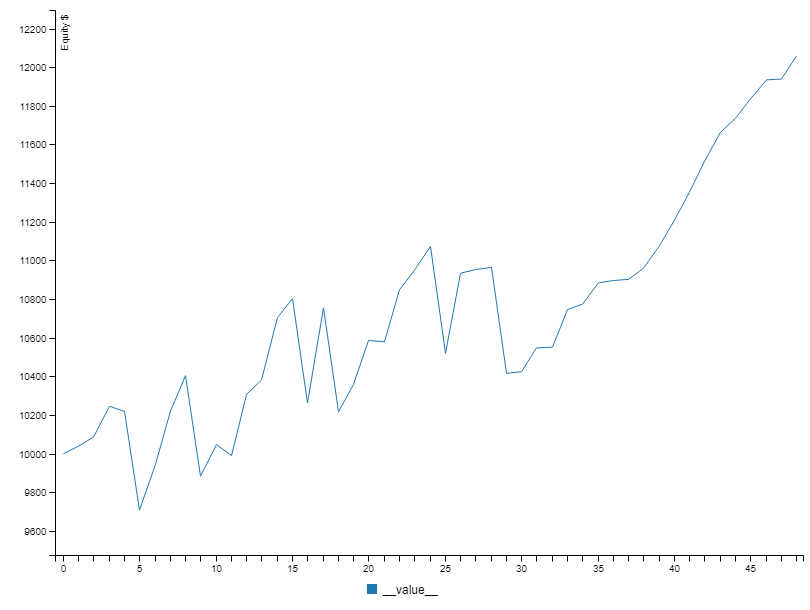
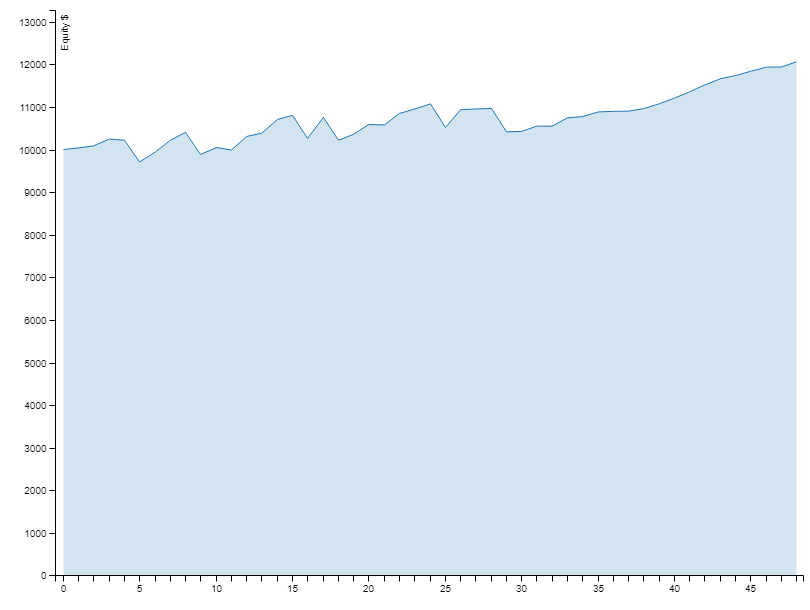
Changed equity curve and drawdown charts to area charts. Updated Data-Forge and DFP.

diff --git a/index.js b/index.js
@@ -1,6 +1,6 @@
 
 const dataForge = require('data-forge');
-//TODO: coming soon - require('data-forge-fs'); // For loading files.
+require('data-forge-fs'); // For loading files.
 require('data-forge-indicators'); // For the moving average indicator.
 require('data-forge-plot'); // For rendering charts.
 const { backtest, analyze, computeEquityCurve, computeDrawdown } = require('grademark');
@@ -81,28 +81,28 @@ async function main() {
     const equityCurve = computeEquityCurve(startingCapital, trades);
     const equityCurveOutputFilePath = "output/my-equity-curve.png";
     await equityCurve
-        .plot({ y: { label: "Equity $" }})
+        .plot({ chartType: "area", y: { label: "Equity $" }})
         .renderImage(equityCurveOutputFilePath);
     console.log(">> " + equityCurveOutputFilePath);
 
     const equityCurvePctOutputFilePath = "output/my-equity-curve-pct.png";
     await equityCurve
         .select(v => ((v - startingCapital) / startingCapital) * 100)
-        .plot({ y: { label: "Equity %" }})
+        .plot({ chartType: "area", y: { label: "Equity %" }})
         .renderImage(equityCurvePctOutputFilePath);
     console.log(">> " + equityCurvePctOutputFilePath);
         
     const drawdown = computeDrawdown(startingCapital, trades);
     const drawdownOutputFilePath = "output/my-drawdown.png";
     await drawdown
-        .plot({ y: { label: "Drawdown $" }})
+        .plot({ chartType: "area", y: { label: "Drawdown $" }})
         .renderImage(drawdownOutputFilePath);
     console.log(">> " + drawdownOutputFilePath);
         
     const drawdownPctOutputFilePath = "output/my-drawdown-pct.png";
     await drawdown
         .select(v => (v / startingCapital) * 100)
-        .plot({ y: { label: "Drawdown %" }})
+        .plot({ chartType: "area", y: { label: "Drawdown %" }})
         .renderImage(drawdownPctOutputFilePath);
     console.log(">> " + drawdownPctOutputFilePath);
 };
@@ -112,4 +112,4 @@ main()
     .catch(err => {
         console.error("An error occurred.");
         console.error(err && err.stack || err);
-    })
+    });
